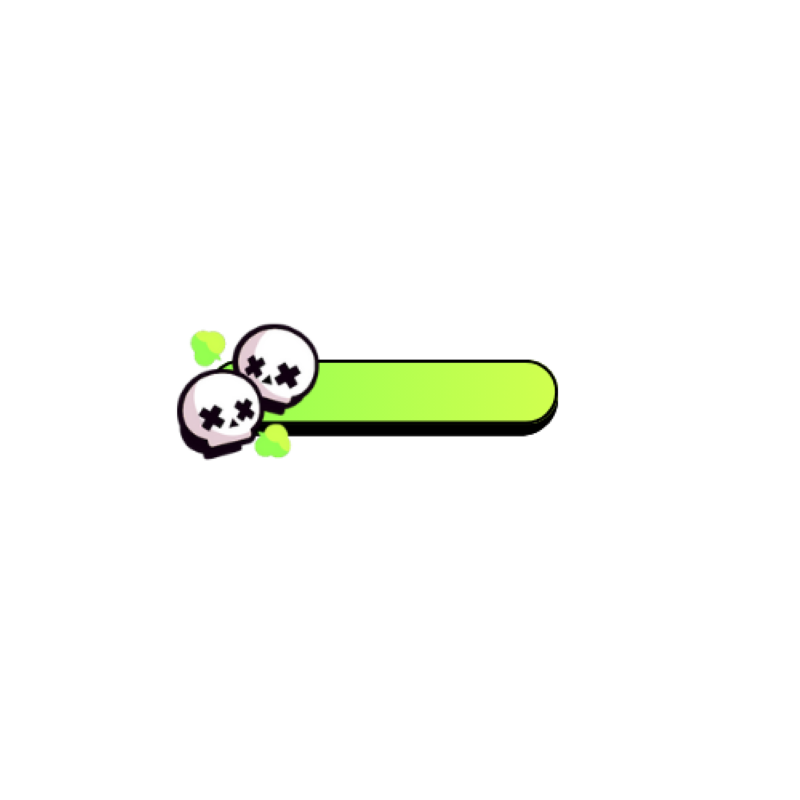
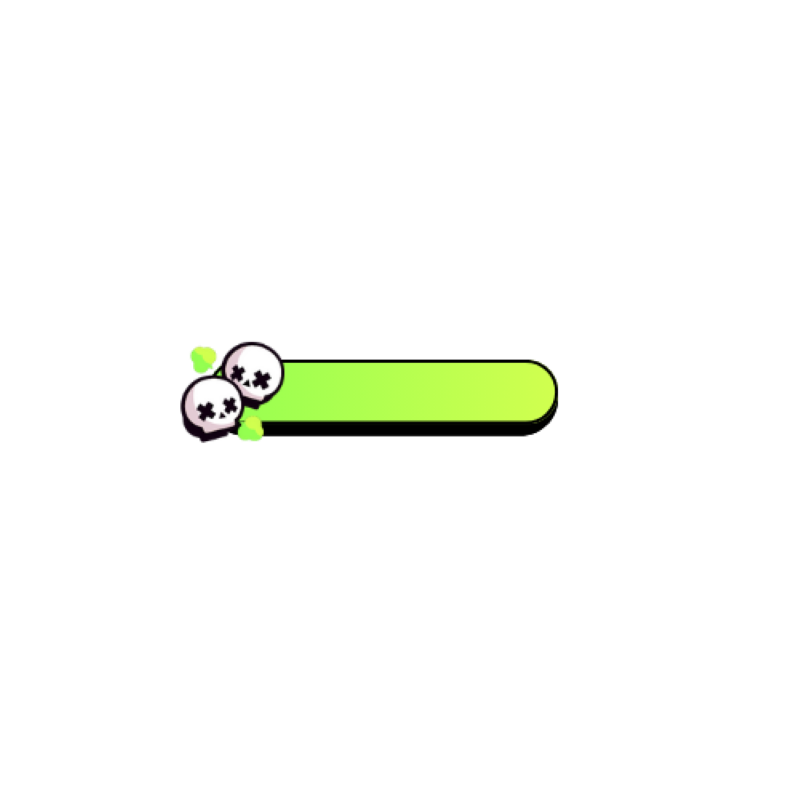
feat: Solo an Duo display

Changed region(s): [[0.2188, 0.4062, 0.4062, 0.5938]]

diff --git a/methods.py b/methods.py
@@ -8,6 +8,8 @@ imageDraw = ImageDraw.Draw(image)
 display_trophies = Image.open("assets/img/display_trophies_bar.png")
 display_max_trophies = Image.open("assets/img/display_max_trophies_bar.png")
 display_level = Image.open("assets/img/display_level_bar.png")
+display_solo_win = Image.open("assets/img/display_solo_win_bar.png")
+display_duo_win = Image.open("assets/img/display_duo_win_bar.png")
 
 def _change_font(size):
     font = ImageFont.truetype("assets/fonts/lilitaone-regular-webfont (2).ttf", size)
@@ -56,7 +58,14 @@ def profile(data):
     image.paste(display_level, (-60, -235), mask=display_level)
     imageDraw.text((320, 130), str(level), fill="black", font=_change_font(50))
 
-
+    #Solo Win
+    image.paste(display_solo_win, (725, -335), mask=display_solo_win)
+    imageDraw.text((1060, 25), str(solo_win), fill="black", font=_change_font(50))
+    
+    #Duo Win
+    image.paste(display_duo_win, (725, -230), mask=display_duo_win)
+    imageDraw.text((1060, 130), str(duo_win), fill="black", font=_change_font(50))
+    
     return image
 
 def error(response):
